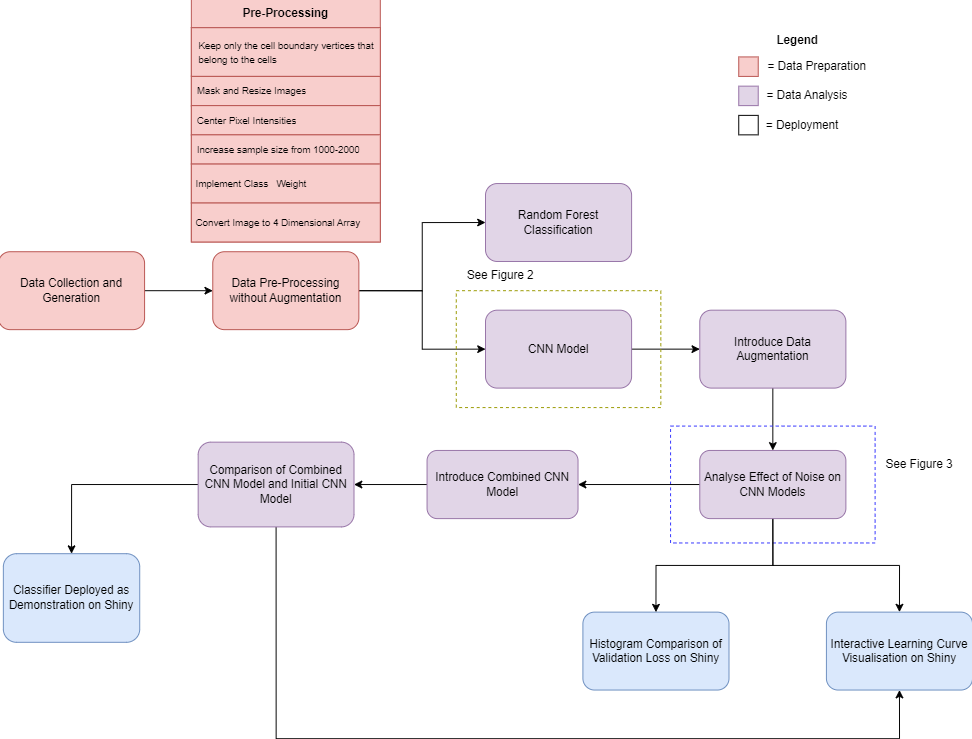
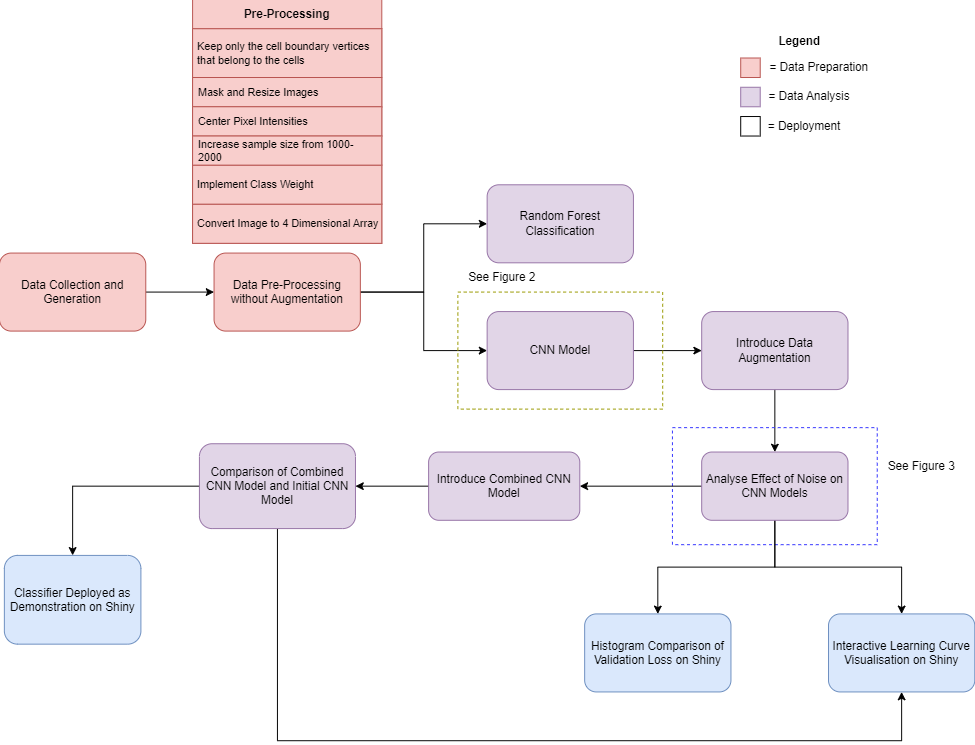
Update on Presentation Slides
Added data collection image, references, fixed up cnn_model diagram

diff --git a/Presentation.html b/Presentation.html
@@ -58,11 +58,11 @@ class: center, middle, inverse, title-slide
 
 ## DATASET
 
-- Biotechnology Data Bundle
+[Biotechnology Generate Images Report](https://www.10xgenomics.com/resources/datasets/fresh-frozen-mouse-brain-for-xenium-explorer-demo-1-standard)
 
-- [Biotechnology generate Images report](https://www.10xgenomics.com/resources/datasets/fresh-frozen-mouse-brain-for-xenium-explorer-demo-1-standard)
+Image: Frozen Mouse Brain (Mouse Brain Dataset Explorer, n.d.)
 
-
+&lt;img src="images/Data_Collection.png" width="600px" height="450px" style="display: block; margin: auto;" /&gt;
 
 
 ---
@@ -81,13 +81,18 @@ class: segue-red
 ---
 Figure 1: Workflow Diagram
 
-&lt;img src="images/Workflow.png" width="500px" height="500px" style="display: block; margin: auto;" /&gt;
+&lt;img src="images/Workflow.png" width="550px" height="550px" style="display: block; margin: auto;" /&gt;
+
+
 
 
 ---
-Figure 2: CNN Model (Shanqing; Pednekar &amp; Slater, 2019)
 
-&lt;img src="images/CNN_diagram.png" width="1872" style="display: block; margin: auto;" /&gt;
+Figure 2: CNN Model 
+
+
+&lt;img src="images/CNN_diagram.png" width="1872" /&gt;
+
 
 
 
@@ -112,26 +117,27 @@ class: segue-red
 
 Data augmentation is a technique used to help reduce over-fitting (Shorten &amp; Khoshgoftaar, 2019). 
 
-Three data augmentation factors:
+- **Noise** in data augmentation enlarges the training dataset by introducing random variations to input variables (Maulana, n.d.). This process improves model generalization, loss function and overfitting (Bishop, 1995; Maulana, n.d.) (Shanqing; Pednekar &amp; Slater, 2019).
 
-- noise
 
-- rotation
+- **Image Resolution** is vital in deep learning applications like radiology. High resolution offers more information, but lower resolutions can sometimes enhance model performance by reducing overfitting risks (Sabottke &amp; Spieler, 2020).
 
-- resolution
+- **Image rotation**, a key data augmentation strategy, enhances machine learning models' performance by diversifying cell observations (Mikołajczyk &amp; Grochowski, 2018). 
 
 
 ---
 Figure 3: Result Collection Process
 
 
-&lt;img src="images/Results_Process.png" width="500px" height="500px" style="display: block; margin: auto;" /&gt;
+&lt;img src="images/Results_Process.png" width="550px" height="550px" style="display: block; margin: auto;" /&gt;
 
 ---
 
 ## RESULTS
 
-Shiny App link
+As a team we developed this shared interactive tool to assess how the model’s performance and robustness vary with different types of data augmentation factors. 
+
+Shiny App link...
 
 
 ---
@@ -172,10 +178,40 @@ class: segue-red
 
 ---
 
+## Q &amp; A 
+
+
+
+---
 ## REFERENCES
 
+.scroll-output[
+Bishop, C. M. (1995). Training with Noise is Equivalent to Tikhonov Regularization. Neural Computation, 7(1), 108–116. https://doi.org/10.1162/neco.1995.7.1.108
 
+Drenkow, N., Sani, N., Shpitser, I., &amp; Unberath, M. (n.d.). A Systematic Review of Robustness in Deep Learning for Computer Vision: Mind the gap? Retrieved May 1, 2023, from https://arxiv.org/pdf/2112.00639.pdf
 
+Flowchart Maker &amp; Online Diagram Software. (n.d.). App.diagrams.net. Retrieved May 13, 2023, from https://app.diagrams.net/#G1sC_YYsPtNceeaTTMVIXFAJuDiMoDg81P
+
+Image Recognition with Deep Neural Networks and its Use Cases. (n.d.). AltexSoft. Retrieved April 14, 2023, from https://www.altexsoft.com/blog/image-recognition-neural-networks-use-cases/#:~:text=The%20leading%20architecture%20used%20for
+
+Maulana, M. A. (n.d.). Adaptive Computation and Machine Learning series- Deep learning-The MIT Press (2016).pdf. Www.academia.edu. Retrieved April 16, 2023, from https://www.academia.edu/38223830/Adaptive_Computation_and_Machine_Learning_series_Deep_learning_The_MIT_Press_2016_pdf
+
+Mikołajczyk, A., &amp; Grochowski, M. (2018, May 1). Data augmentation for improving deep learning in image classification problem. IEEE Xplore. https://doi.org/10.1109/IIPHDW.2018.8388338
+
+Mouse Brain Dataset Explorer. (n.d.). 10x Genomics. Retrieved May 14, 2023, from https://www.10xgenomics.com/products/xenium-in-situ/mouse-brain-dataset-explorer
+
+Rączkowski, Ł., Możejko, M., Zambonelli, J., &amp; Szczurek, E. (2019). ARA: accurate, reliable and active histopathological image classification framework with Bayesian deep learning. Scientific Reports, 9(1). https://doi.org/10.1038/s41598-019-50587-1
+
+Sabottke, C. F., &amp; Spieler, B. M. (2020). The Effect of Image Resolution on Deep Learning in Radiography. Radiology: Artificial Intelligence, 2(1), e190015. https://doi.org/10.1148/ryai.2019190015
+
+Selvikvåg Lundervold, A., &amp; Lundervold, A. (2018). An overview of deep learning in medical imaging focusing on MRI. Zeitschrift Für Medizinische Physik, 29(2). https://doi.org/10.1016/j.zemedi.2018.11.002
+
+Shanqing; Pednekar, M., &amp; Slater, R. (2019). Improve Image Classification Using Data Augmentation and Neural Networks. SMU Data Science Review, 2(2). https://scholar.smu.edu/cgi/viewcontent.cgi?article=1091&amp;context=datasciencereview
+
+Shorten, C., &amp; Khoshgoftaar, T. M. (2019). A survey on Image Data Augmentation for Deep Learning. Journal of Big Data, 6(1). https://doi.org/10.1186/s40537-019-0197-0
+
+What is Data Augmentation in Image Processing? (n.d.). Www.amygb.ai. Retrieved May 12, 2023, from https://www.amygb.ai/blog/what-is-data-augmentation-in-image-processing
+]
 
 
     </textarea>
